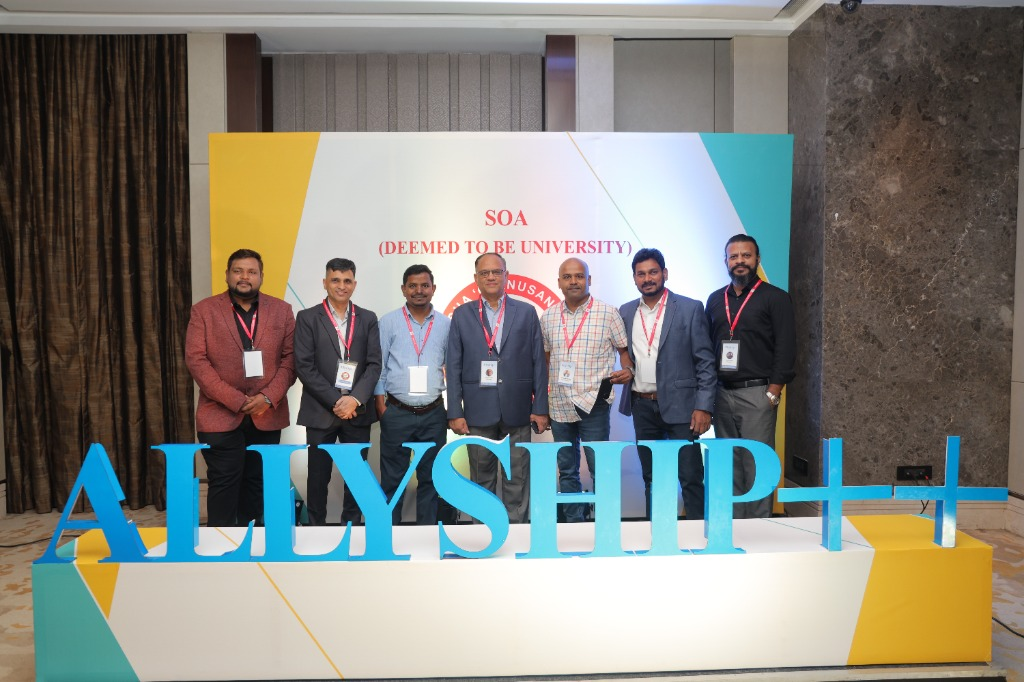
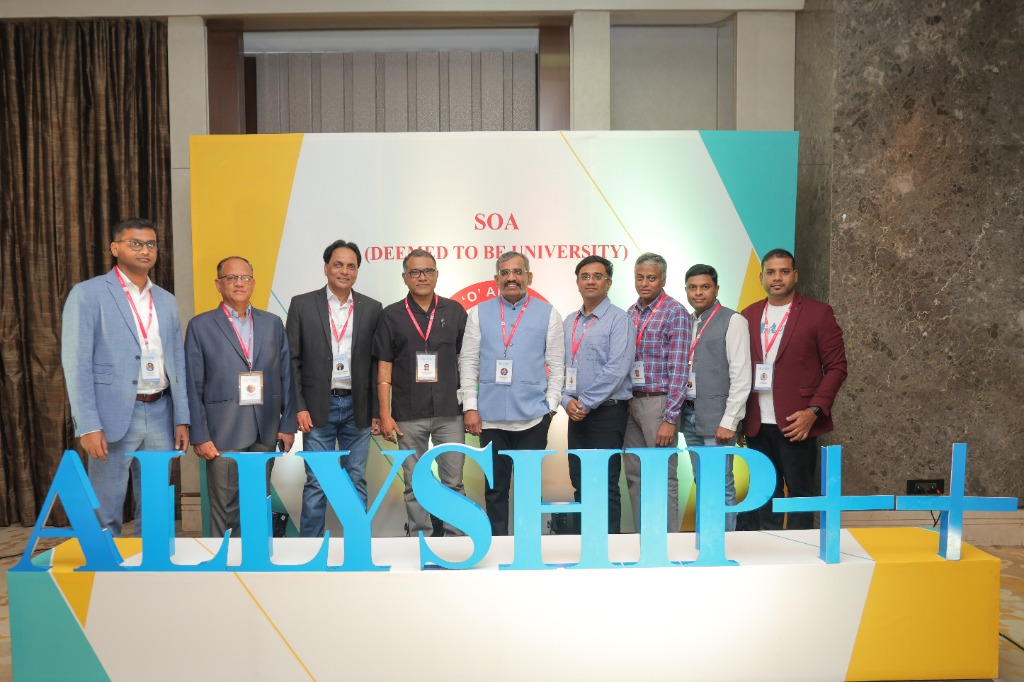
fix(event): remove duplicate ALLYSHIP++ installation shot and clear uncurated legacy slots 13-24 in Bengaluru 1.0

diff --git a/src/app/event/page.tsx b/src/app/event/page.tsx
@@ -306,73 +306,13 @@ const CHAPTER_ARCHIVES: Record<string, ChapterMediaArchive> = {
       },
       {
         src: "/conclave-moments/bengaluru-1/bengaluru-1-11.jpg",
-        caption: "Industry Delegates & Conclave Dignitaries with ALLYSHIP++ Installation",
-        objectPosition: "50% 35%",
-      },
-      {
-        src: "/conclave-moments/bengaluru-1/bengaluru-1-12.jpg",
         caption: "Corporate Leadership & Academic Delegation with ALLYSHIP++ Installation",
         objectPosition: "50% 35%",
       },
       {
-        src: "/conclave-moments/bengaluru-1/bengaluru-1-13.jpg",
+        src: "/conclave-moments/bengaluru-1/bengaluru-1-12.jpg",
         caption: "Executive Panelist Addressing the Conclave during Strategic Deliberations",
         objectPosition: "55% 25%",
-      },
-      {
-        src: "/conclave-moments/bengaluru-1/bengaluru-1-14.jpg",
-        caption: "Conclave Delegates & Engineering Leaders Engaged in Deliberation",
-        objectPosition: "50% 35%",
-      },
-      {
-        src: "/conclave-moments/bengaluru-1/bengaluru-1-15.jpg",
-        caption: "Distinguished Guest Felicitation on Stage by University Leadership",
-        objectPosition: "50% 30%",
-      },
-      {
-        src: "/conclave-moments/bengaluru-1/bengaluru-1-16.jpg",
-        caption: "Strategic Collaboration Dialogue Between Corporate Leaders & Faculty",
-        objectPosition: "50% 30%",
-      },
-      {
-        src: "/conclave-moments/bengaluru-1/bengaluru-1-17.jpg",
-        caption: "Cross-Industry Panel Deliberations on Engineering & Leadership",
-        objectPosition: "50% 30%",
-      },
-      {
-        src: "/conclave-moments/bengaluru-1/bengaluru-1-18.jpg",
-        caption: "Keynote Address by Dr. P.B. Kotur, Head, L&T Global Engineering Academy",
-        objectPosition: "50% 25%",
-      },
-      {
-        src: "/conclave-moments/bengaluru-1/bengaluru-1-19.jpg",
-        caption: "Academic & Industry Leadership Synthesis on the Dais",
-        objectPosition: "50% 30%",
-      },
-      {
-        src: "/conclave-moments/bengaluru-1/bengaluru-1-20.jpg",
-        caption: "Keynote Perspectives: Aligning Corporate Corridors with Campus Talent",
-        objectPosition: "50% 25%",
-      },
-      {
-        src: "/conclave-moments/bengaluru-1/bengaluru-1-21.jpg",
-        caption: "Industry Address by Dr. S.J. Naganagouda, Chief People Officer, Tally Solutions",
-        objectPosition: "50% 25%",
-      },
-      {
-        src: "/conclave-moments/bengaluru-1/bengaluru-1-22.jpg",
-        caption: "Welcome & Conclave Framing Address by Prof. (Dr.) Raj Kumar Hota",
-        objectPosition: "50% 25%",
-      },
-      {
-        src: "/conclave-moments/bengaluru-1/bengaluru-1-23.jpg",
-        caption: "Applied Innovation & Emerging Tech Skills Dialogue",
-        objectPosition: "50% 25%",
-      },
-      {
-        src: "/conclave-moments/bengaluru-1/bengaluru-1-24.jpg",
-        caption: "Corporate Foresight Address on Evolving Tech Corridors",
-        objectPosition: "50% 25%",
       },
     ]),
   },
